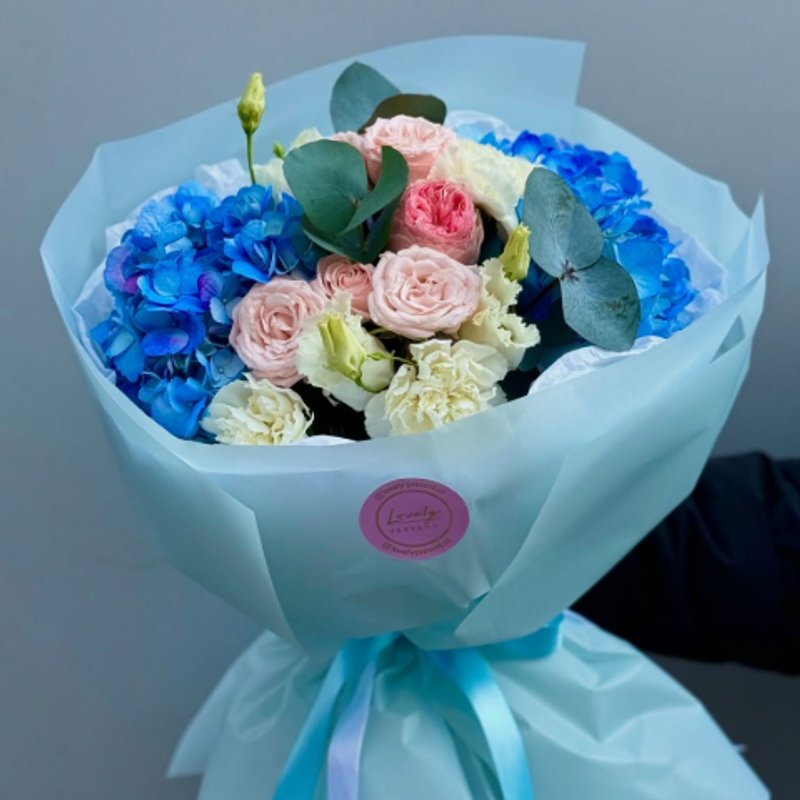
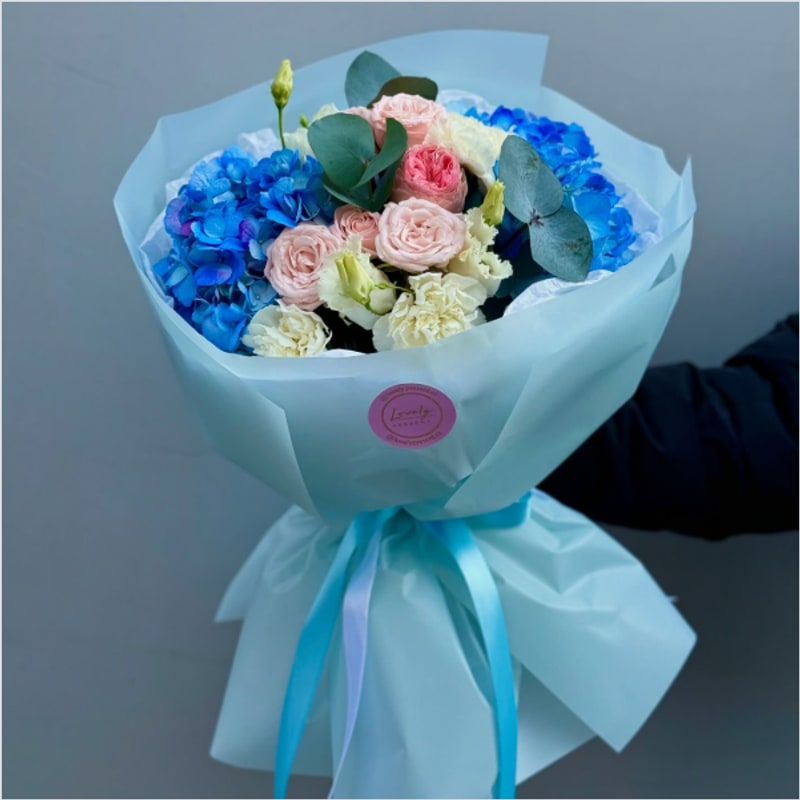
fix: improve design quality, re-crop images, fix layout spacing
- Re-crop all product images from Instagram screenshots with auto-detected
  photo boundaries, removing UI artifacts (carousel arrows, sidebars)
- Add AnnouncementBar component with free delivery message
- Use next/image in HeroSection for better optimization
- Fix Google Maps embed URL for correct location
- Replace emoji icons with SVG icons in WhyChooseUs
- Add hover lift effect and better shadows to ProductCard
- Tighten spacing across all sections (py-12 -> py-10, max-w-6xl -> max-w-5xl)
- Add borders and shadows to CategoryStrip cards
- Add border-top separator to Footer

diff --git a/src/components/WhyChooseUs.tsx b/src/components/WhyChooseUs.tsx
@@ -5,7 +5,38 @@ interface WhyChooseUsProps {
   lang: Lang;
 }
 
-const icons = ["🌸", "🚀", "💐"];
+function FlowerIcon() {
+  return (
+    <div className="w-14 h-14 rounded-full bg-[var(--color-pink-light)] flex items-center justify-center">
+      <svg className="w-7 h-7 text-[var(--color-pink-brand)]" fill="none" viewBox="0 0 24 24" stroke="currentColor" strokeWidth={1.5}>
+        <path strokeLinecap="round" strokeLinejoin="round" d="M12 21a9 9 0 100-18 9 9 0 000 18z" />
+        <path strokeLinecap="round" strokeLinejoin="round" d="M12 3c-1.5 3-1.5 6 0 9M12 3c1.5 3 1.5 6 0 9M12 12c-3 1.5-6 1.5-9 0M12 12c3 1.5 6 1.5 9 0" />
+      </svg>
+    </div>
+  );
+}
+
+function DeliveryIcon() {
+  return (
+    <div className="w-14 h-14 rounded-full bg-[var(--color-pink-light)] flex items-center justify-center">
+      <svg className="w-7 h-7 text-[var(--color-pink-brand)]" fill="none" viewBox="0 0 24 24" stroke="currentColor" strokeWidth={1.5}>
+        <path strokeLinecap="round" strokeLinejoin="round" d="M13 16V6a1 1 0 00-1-1H4a1 1 0 00-1 1v10a1 1 0 001 1h1m8-1a1 1 0 01-1 1H9m4-1V8a1 1 0 011-1h2.586a1 1 0 01.707.293l3.414 3.414a1 1 0 01.293.707V16a1 1 0 01-1 1h-1m-6-1a1 1 0 001 1h1M5 17a2 2 0 104 0m-4 0a2 2 0 114 0m6 0a2 2 0 104 0m-4 0a2 2 0 114 0" />
+      </svg>
+    </div>
+  );
+}
+
+function CustomIcon() {
+  return (
+    <div className="w-14 h-14 rounded-full bg-[var(--color-pink-light)] flex items-center justify-center">
+      <svg className="w-7 h-7 text-[var(--color-pink-brand)]" fill="none" viewBox="0 0 24 24" stroke="currentColor" strokeWidth={1.5}>
+        <path strokeLinecap="round" strokeLinejoin="round" d="M21 8.25c0-2.485-2.099-4.5-4.688-4.5-1.935 0-3.597 1.126-4.312 2.733-.715-1.607-2.377-2.733-4.313-2.733C5.1 3.75 3 5.765 3 8.25c0 7.22 9 12 9 12s9-4.78 9-12z" />
+      </svg>
+    </div>
+  );
+}
+
+const iconComponents = [FlowerIcon, DeliveryIcon, CustomIcon];
 
 export default function WhyChooseUs({ lang }: WhyChooseUsProps) {
   const t = getTranslations(lang);
@@ -17,24 +48,27 @@ export default function WhyChooseUs({ lang }: WhyChooseUsProps) {
   ];
 
   return (
-    <section className="py-14 px-4">
-      <div className="max-w-6xl mx-auto">
-        <h2 className="font-serif text-2xl md:text-3xl font-bold text-[var(--color-navy)] text-center mb-10">
+    <section className="py-10 px-4">
+      <div className="max-w-5xl mx-auto">
+        <h2 className="font-serif text-2xl md:text-3xl font-bold text-[var(--color-navy)] text-center mb-8">
           {t.home.why}
         </h2>
-        <div className="grid grid-cols-1 md:grid-cols-3 gap-8">
-          {reasons.map((reason, i) => (
-            <div
-              key={i}
-              className="flex flex-col items-center text-center gap-3 p-6 rounded-2xl bg-white shadow-sm hover:shadow-md transition-shadow"
-            >
-              <span className="text-5xl">{icons[i]}</span>
-              <h3 className="font-serif text-lg font-semibold text-[var(--color-navy)]">
-                {reason.title}
-              </h3>
-              <p className="text-gray-600 text-sm leading-relaxed">{reason.desc}</p>
-            </div>
-          ))}
+        <div className="grid grid-cols-1 md:grid-cols-3 gap-6">
+          {reasons.map((reason, i) => {
+            const IconComponent = iconComponents[i];
+            return (
+              <div
+                key={i}
+                className="flex flex-col items-center text-center gap-3 p-6 rounded-xl bg-white shadow-sm hover:shadow-md transition-shadow border border-gray-50"
+              >
+                <IconComponent />
+                <h3 className="font-serif text-lg font-semibold text-[var(--color-navy)]">
+                  {reason.title}
+                </h3>
+                <p className="text-gray-600 text-sm leading-relaxed">{reason.desc}</p>
+              </div>
+            );
+          })}
         </div>
       </div>
     </section>

diff --git a/src/app/[lang]/about/page.tsx b/src/app/[lang]/about/page.tsx
@@ -39,16 +39,16 @@ export default async function AboutPage({
   const langReviews = reviews[lang] || reviews.cz;
 
   return (
-    <main className="max-w-6xl mx-auto px-4 py-12">
+    <main className="max-w-5xl mx-auto px-4 py-10">
       {/* Page title */}
-      <h1 className="font-serif text-4xl font-bold text-[var(--color-navy)] text-center mb-10">
+      <h1 className="font-serif text-4xl font-bold text-[var(--color-navy)] text-center mb-8">
         {t.about.title}
       </h1>
 
       {/* 2-column: storefront + story/info */}
-      <div className="grid grid-cols-1 md:grid-cols-2 gap-10 mb-14">
+      <div className="grid grid-cols-1 md:grid-cols-2 gap-8 mb-12">
         {/* Left: storefront image */}
-        <div className="relative aspect-[4/3] w-full rounded-2xl overflow-hidden shadow-md">
+        <div className="relative aspect-[4/3] w-full rounded-xl overflow-hidden shadow-md">
           <Image
             src="/images/storefront.jpg"
             alt="Lovely Present storefront"
@@ -107,9 +107,9 @@ export default async function AboutPage({
       </div>
 
       {/* Google Maps embed */}
-      <div className="w-full rounded-2xl overflow-hidden shadow-md mb-14 h-64 md:h-80">
+      <div className="w-full rounded-xl overflow-hidden shadow-md mb-12 h-[400px]">
         <iframe
-          src="https://www.google.com/maps/embed?pb=!1m18!1m12!1m3!1d2564.7!2d14.5!3d50.0!2m3!1f0!2f0!3f0!3m2!1i1024!2i768!4f13.1!3m3!1m2!1s0x470b93e9e1c2b7f3%3A0x0!2s5.+Kv%C4%9Btna+1298%2F14%2C+Prague+14000!5e0!3m2!1sen!2scz!4v1680000000000!5m2!1sen!2scz"
+          src="https://www.google.com/maps/embed?pb=!1m18!1m12!1m3!1d2561.5!2d14.4394!3d50.0546!2m3!1f0!2f0!3f0!3m2!1i1024!2i768!4f13.1!3m3!1m2!1s0x470b93926ad8a5e7%3A0x3a847f9e03be1b0d!2z5S4ga3bEm3RuYSAxMjk4LzE0LCAxNDAgMDAgUHJhaGE!5e0!3m2!1sen!2scz"
           width="100%"
           height="100%"
           style={{ border: 0 }}
@@ -122,14 +122,14 @@ export default async function AboutPage({
 
       {/* Customer reviews */}
       <section>
-        <h2 className="font-serif text-3xl font-bold text-[var(--color-navy)] text-center mb-8">
+        <h2 className="font-serif text-3xl font-bold text-[var(--color-navy)] text-center mb-6">
           {t.about.reviews}
         </h2>
-        <div className="grid grid-cols-1 sm:grid-cols-3 gap-6">
+        <div className="grid grid-cols-1 sm:grid-cols-3 gap-5">
           {langReviews.map((quote, i) => (
             <div
               key={i}
-              className="bg-[var(--color-pink-light)] rounded-2xl p-6 flex flex-col gap-3 shadow-sm"
+              className="bg-[var(--color-pink-light)] rounded-xl p-6 flex flex-col gap-3 shadow-sm hover:shadow-md transition-shadow"
             >
               <p className="text-[var(--color-pink-brand)] text-xl tracking-widest">★★★★★</p>
               <p className="text-gray-700 leading-relaxed italic">&ldquo;{quote}&rdquo;</p>

diff --git a/src/components/Navbar.tsx b/src/components/Navbar.tsx
@@ -14,40 +14,40 @@ export default function Navbar() {
 
   return (
     <>
-      <header className="sticky top-0 z-30 bg-white/90 backdrop-blur-md border-b border-gray-100">
-        <div className="max-w-6xl mx-auto px-4 h-16 flex items-center justify-between gap-4">
+      <header className="sticky top-0 z-30 bg-white/95 backdrop-blur-md border-b border-gray-100 shadow-sm">
+        <div className="max-w-5xl mx-auto px-4 h-16 flex items-center justify-between gap-3">
           {/* Left: Logo */}
           <Link href={`/${lang}`} className="flex items-center gap-2.5 flex-shrink-0">
             <Image
               src="/images/logo.png"
               alt="Lovely Present logo"
-              width={40}
-              height={40}
+              width={44}
+              height={44}
               className="rounded-full object-cover"
               priority
             />
-            <span className="hidden sm:block font-serif font-bold text-[var(--color-navy)] text-lg leading-tight">
+            <span className="hidden sm:block font-serif font-bold text-[var(--color-navy)] text-xl leading-tight">
               Lovely Present
             </span>
           </Link>
 
           {/* Center: Desktop nav links */}
-          <nav className="hidden md:flex items-center gap-1">
+          <nav className="hidden md:flex items-center gap-0.5">
             <Link
               href={`/${lang}/shop`}
-              className="px-4 py-2 rounded-lg text-sm font-medium text-gray-700 hover:text-[var(--color-pink-brand)] hover:bg-[var(--color-pink-light)] transition-colors"
+              className="px-4 py-2 rounded-lg text-sm font-semibold text-gray-700 hover:text-[var(--color-pink-brand)] hover:bg-[var(--color-pink-light)] transition-colors"
             >
               {t.nav.shop}
             </Link>
             <Link
               href={`/${lang}/about`}
-              className="px-4 py-2 rounded-lg text-sm font-medium text-gray-700 hover:text-[var(--color-pink-brand)] hover:bg-[var(--color-pink-light)] transition-colors"
+              className="px-4 py-2 rounded-lg text-sm font-semibold text-gray-700 hover:text-[var(--color-pink-brand)] hover:bg-[var(--color-pink-light)] transition-colors"
             >
               {t.nav.about}
             </Link>
             <Link
               href={`/${lang}/contact`}
-              className="px-4 py-2 rounded-lg text-sm font-medium text-gray-700 hover:text-[var(--color-pink-brand)] hover:bg-[var(--color-pink-light)] transition-colors"
+              className="px-4 py-2 rounded-lg text-sm font-semibold text-gray-700 hover:text-[var(--color-pink-brand)] hover:bg-[var(--color-pink-light)] transition-colors"
             >
               {t.nav.contact}
             </Link>

diff --git a/src/components/CategoryStrip.tsx b/src/components/CategoryStrip.tsx
@@ -18,19 +18,19 @@ export default function CategoryStrip({ lang }: CategoryStripProps) {
   const t = getTranslations(lang);
 
   return (
-    <section className="py-10 px-4">
-      <div className="max-w-6xl mx-auto">
+    <section className="py-8 px-4">
+      <div className="max-w-5xl mx-auto">
         <h2 className="font-serif text-2xl md:text-3xl font-bold text-[var(--color-navy)] text-center mb-6">
           {t.home.categories}
         </h2>
-        <div className="flex gap-4 overflow-x-auto pb-3 scrollbar-hide">
+        <div className="flex gap-4 overflow-x-auto pb-3 scrollbar-hide justify-center">
           {categories.map((cat) => (
             <Link
               key={cat.slug}
               href={`/${lang}/shop?category=${cat.slug}`}
               className="flex-shrink-0 group flex flex-col items-center gap-2"
             >
-              <div className="relative w-24 h-24 rounded-2xl overflow-hidden shadow-sm group-hover:shadow-md transition-shadow">
+              <div className="relative w-24 h-24 rounded-xl overflow-hidden shadow-sm border border-gray-100 group-hover:shadow-lg group-hover:border-[var(--color-pink-brand)]/30 transition-all duration-300">
                 <Image
                   src={getCategoryImage(cat.slug)}
                   alt={cat.label[lang]}
@@ -39,7 +39,7 @@ export default function CategoryStrip({ lang }: CategoryStripProps) {
                   sizes="96px"
                 />
               </div>
-              <span className="text-xs font-semibold text-[var(--color-navy)] text-center whitespace-nowrap group-hover:text-[var(--color-pink-brand)] transition-colors">
+              <span className="text-sm font-semibold text-[var(--color-navy)] text-center whitespace-nowrap group-hover:text-[var(--color-pink-brand)] transition-colors">
                 {cat.label[lang]}
               </span>
             </Link>

diff --git a/src/components/HeroSection.tsx b/src/components/HeroSection.tsx
@@ -1,4 +1,5 @@
 import Link from "next/link";
+import Image from "next/image";
 import { Lang } from "@/lib/types";
 import { getTranslations } from "@/lib/translations";
 
@@ -10,16 +11,23 @@ export default function HeroSection({ lang }: HeroSectionProps) {
   const t = getTranslations(lang);
 
   return (
-    <section
-      className="relative h-[70vh] min-h-[500px] flex items-center justify-center"
-      style={{
-        backgroundImage: "url('/images/hero.jpg')",
-        backgroundSize: "cover",
-        backgroundPosition: "center",
-      }}
-    >
-      {/* Dark gradient overlay */}
-      <div className="absolute inset-0 bg-gradient-to-b from-black/40 via-black/50 to-black/60" />
+    <section className="relative h-[65vh] min-h-[460px] flex items-center justify-center overflow-hidden">
+      {/* Background image using next/image for optimization */}
+      <Image
+        src="/images/hero.jpg"
+        alt="Lovely Present flowers"
+        fill
+        className="object-cover"
+        sizes="100vw"
+        priority
+        quality={90}
+      />
+
+      {/* Elegant gradient overlay - darker at bottom, lighter at top */}
+      <div className="absolute inset-0 bg-gradient-to-b from-black/20 via-black/40 to-black/65" />
+
+      {/* Subtle backdrop blur layer at the bottom for text readability */}
+      <div className="absolute inset-x-0 bottom-0 h-1/2 backdrop-blur-[2px]" />
 
       {/* Content */}
       <div className="relative z-10 text-center px-4">

diff --git a/src/app/[lang]/contact/page.tsx b/src/app/[lang]/contact/page.tsx
@@ -12,13 +12,13 @@ export default async function ContactPage({
   const t = getTranslations(lang);
 
   return (
-    <main className="max-w-6xl mx-auto px-4 py-12">
+    <main className="max-w-5xl mx-auto px-4 py-10">
       {/* Page title */}
-      <h1 className="font-serif text-4xl font-bold text-[var(--color-navy)] text-center mb-10">
+      <h1 className="font-serif text-4xl font-bold text-[var(--color-navy)] text-center mb-8">
         {t.contact.title}
       </h1>
 
-      <div className="grid grid-cols-1 md:grid-cols-2 gap-10">
+      <div className="grid grid-cols-1 md:grid-cols-2 gap-8">
         {/* Left column: contact cards + address/hours */}
         <div className="flex flex-col gap-5">
           {/* WhatsApp card */}

diff --git a/src/components/FeaturedProducts.tsx b/src/components/FeaturedProducts.tsx
@@ -12,9 +12,9 @@ export default function FeaturedProducts({ lang }: FeaturedProductsProps) {
   const featured = getFeaturedProducts().slice(0, 4);
 
   return (
-    <section className="py-12 px-4 bg-[var(--color-pink-light)]">
-      <div className="max-w-6xl mx-auto">
-        <h2 className="font-serif text-2xl md:text-3xl font-bold text-[var(--color-navy)] text-center mb-8">
+    <section className="py-10 px-4 bg-[var(--color-pink-light)]">
+      <div className="max-w-5xl mx-auto">
+        <h2 className="font-serif text-2xl md:text-3xl font-bold text-[var(--color-navy)] text-center mb-6">
           {t.home.featured}
         </h2>
         <div className="grid grid-cols-1 sm:grid-cols-2 lg:grid-cols-4 gap-6">

diff --git a/src/components/ProductCard.tsx b/src/components/ProductCard.tsx
@@ -15,8 +15,8 @@ export default function ProductCard({ product }: ProductCardProps) {
   const { t, lang } = useTranslation();
 
   return (
-    <div className="rounded-2xl shadow-sm hover:shadow-xl transition-shadow duration-300 overflow-hidden bg-white">
-      <Link href={`/${lang}/product/${product.slug}`} className="block relative aspect-square overflow-hidden">
+    <div className="rounded-xl shadow-sm hover:shadow-xl hover:-translate-y-1 transition-all duration-300 overflow-hidden bg-white">
+      <Link href={`/${lang}/product/${product.slug}`} className="block relative aspect-square overflow-hidden rounded-t-xl">
         <Image
           src={product.image}
           alt={product.name[lang]}

diff --git a/src/components/InstagramPreview.tsx b/src/components/InstagramPreview.tsx
@@ -14,9 +14,9 @@ export default function InstagramPreview({ lang }: InstagramPreviewProps) {
   const previewProducts = products.slice(0, 6);
 
   return (
-    <section className="py-14 px-4 bg-[var(--color-pink-light)]">
-      <div className="max-w-6xl mx-auto">
-        <h2 className="font-serif text-2xl md:text-3xl font-bold text-[var(--color-navy)] text-center mb-8">
+    <section className="py-10 px-4 bg-[var(--color-pink-light)]">
+      <div className="max-w-5xl mx-auto">
+        <h2 className="font-serif text-2xl md:text-3xl font-bold text-[var(--color-navy)] text-center mb-6">
           {t.home.instagram}
         </h2>
         <div className="grid grid-cols-2 sm:grid-cols-3 gap-3">

diff --git a/src/components/Footer.tsx b/src/components/Footer.tsx
@@ -18,9 +18,9 @@ export default function Footer({ lang }: FooterProps) {
   const t = getTranslations(lang);
 
   return (
-    <footer className="bg-[var(--color-navy)] text-white">
-      <div className="max-w-6xl mx-auto px-4 py-12">
-        <div className="grid grid-cols-1 sm:grid-cols-2 lg:grid-cols-4 gap-8">
+    <footer className="bg-[var(--color-navy)] text-white border-t border-gray-200">
+      <div className="max-w-5xl mx-auto px-4 py-10">
+        <div className="grid grid-cols-1 sm:grid-cols-2 lg:grid-cols-4 gap-6">
           {/* Column 1: Logo + tagline */}
           <div>
             <div className="flex items-center gap-2.5 mb-3">

diff --git a/src/components/AnnouncementBar.tsx b/src/components/AnnouncementBar.tsx
@@ -1,0 +1,21 @@
+"use client";
+
+import { useTranslation } from "@/hooks/useTranslation";
+
+const announcements = {
+  cz: "Doprava zdarma u objednavek nad 2000 Kc",
+  en: "Free delivery on orders over 2000 Kc",
+  ua: "Bezkoshtovna dostavka vid 2000 Kc",
+  ru: "Besplatnaya dostavka ot 2000 Kc",
+};
+
+export default function AnnouncementBar() {
+  const { lang } = useTranslation();
+  const text = announcements[lang] || announcements.cz;
+
+  return (
+    <div className="bg-[var(--color-pink-brand)] text-white text-center text-xs sm:text-sm py-1.5 px-4 font-medium tracking-wide">
+      {text}
+    </div>
+  );
+}

diff --git a/src/app/[lang]/layout.tsx b/src/app/[lang]/layout.tsx
@@ -1,6 +1,7 @@
 import { ReactNode } from "react";
 import { Lang } from "@/lib/types";
 import { CartProvider } from "@/context/CartContext";
+import AnnouncementBar from "@/components/AnnouncementBar";
 import Navbar from "@/components/Navbar";
 import Footer from "@/components/Footer";
 import CartPanel from "@/components/CartPanel";
@@ -23,6 +24,7 @@ export default async function LangLayout({
 
   return (
     <CartProvider>
+      <AnnouncementBar />
       <Navbar />
       <main className="flex-1">{children}</main>
       <Footer lang={lang} />
